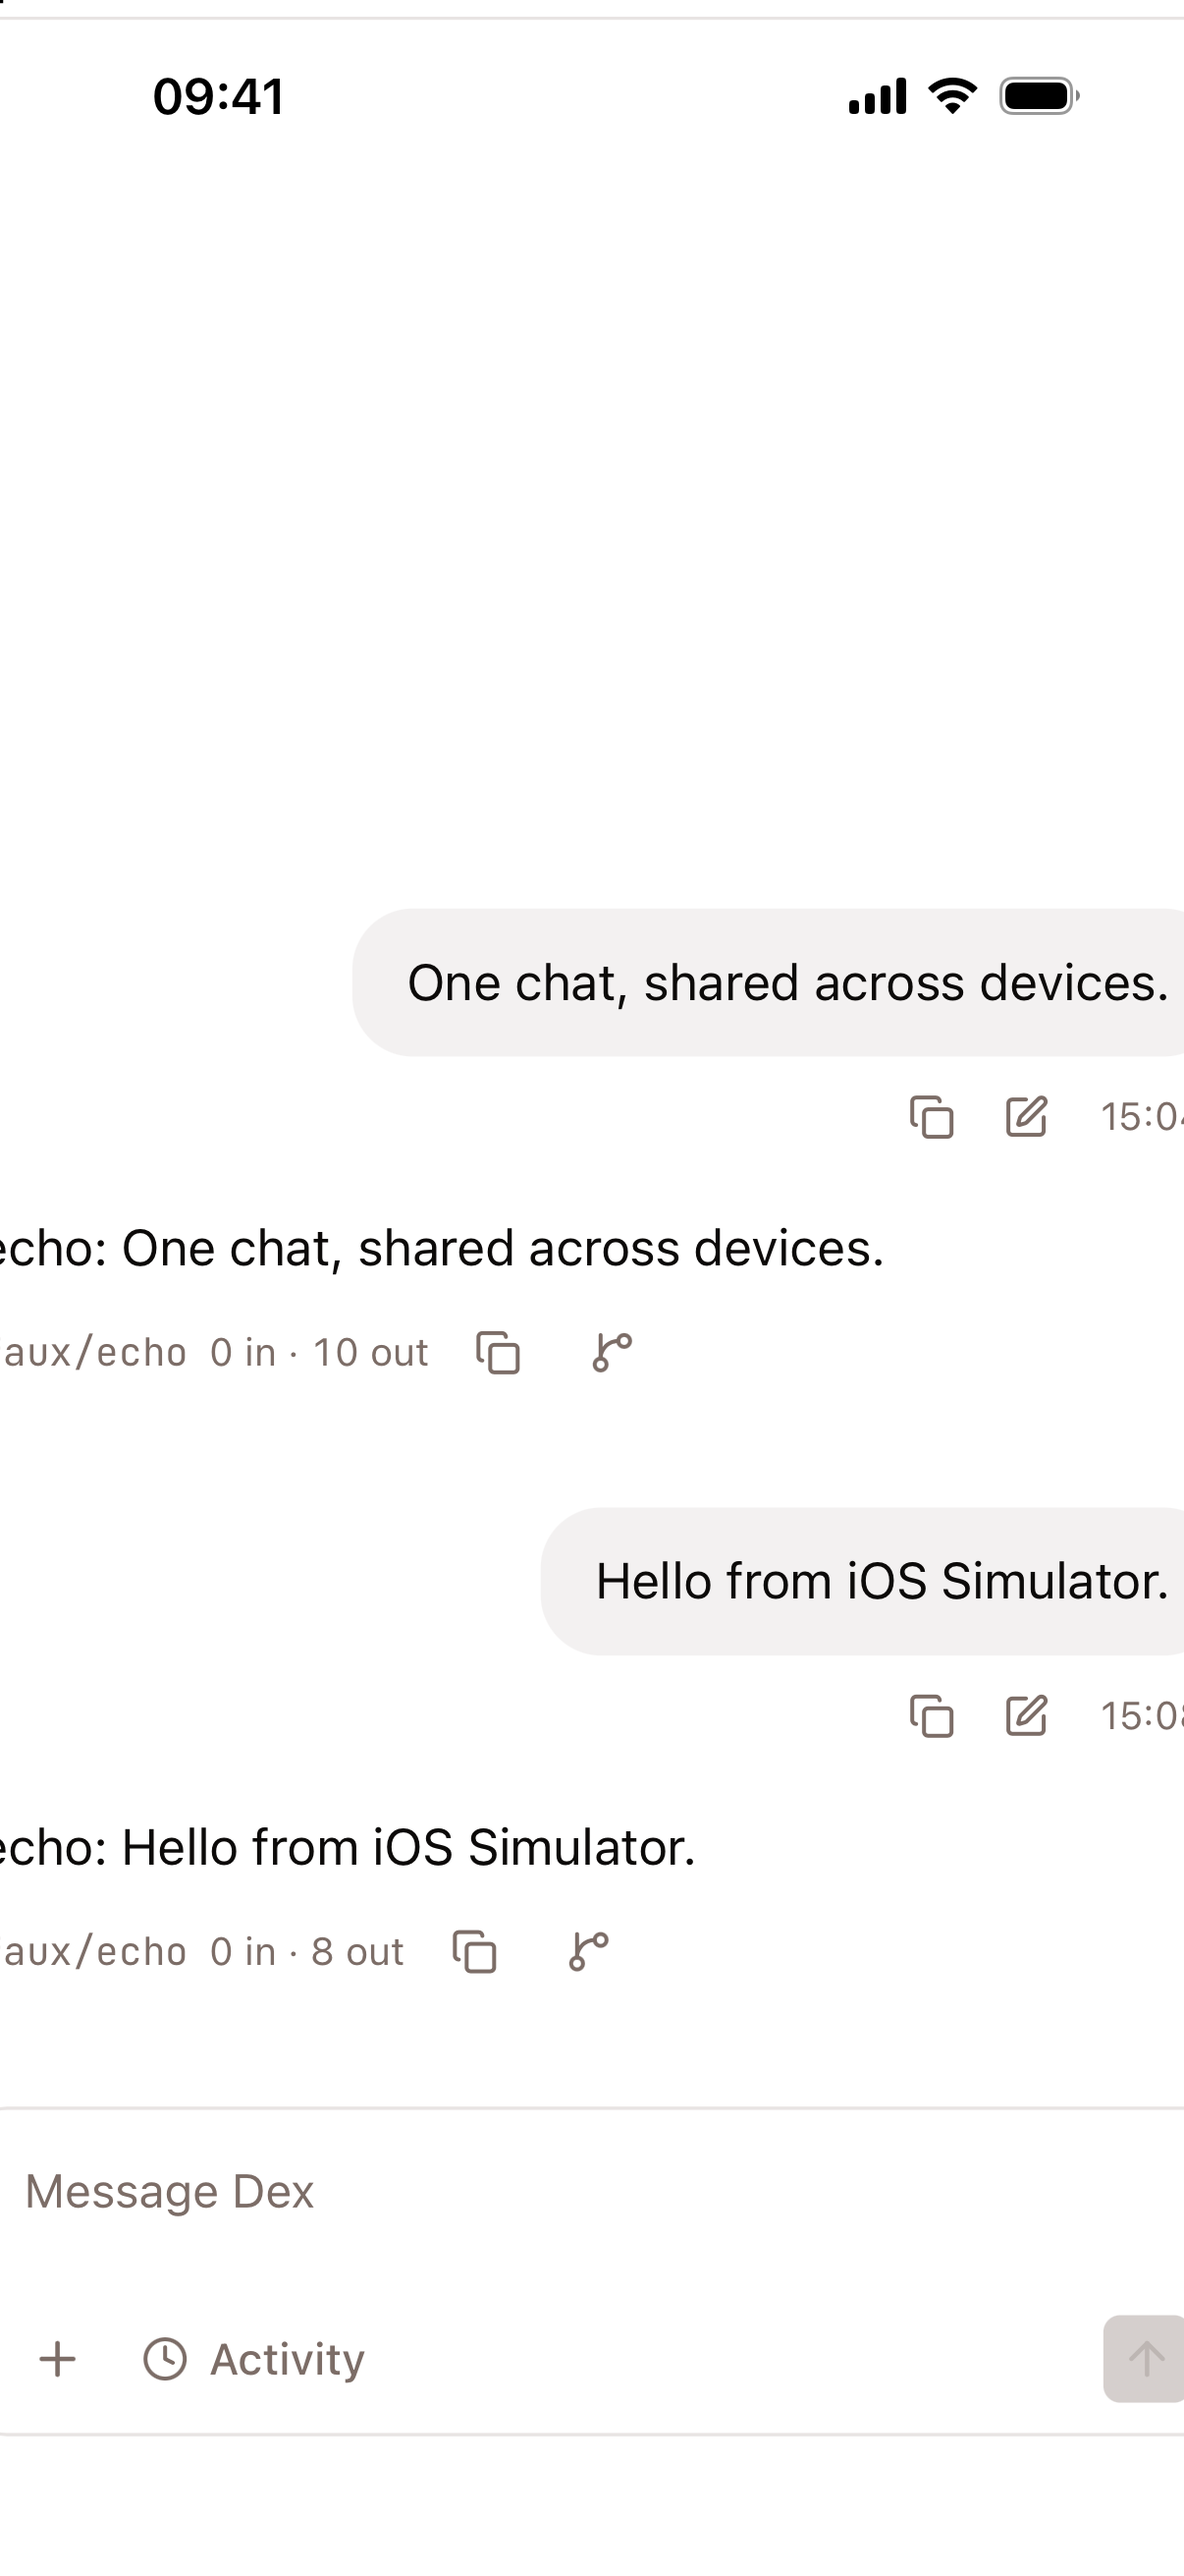
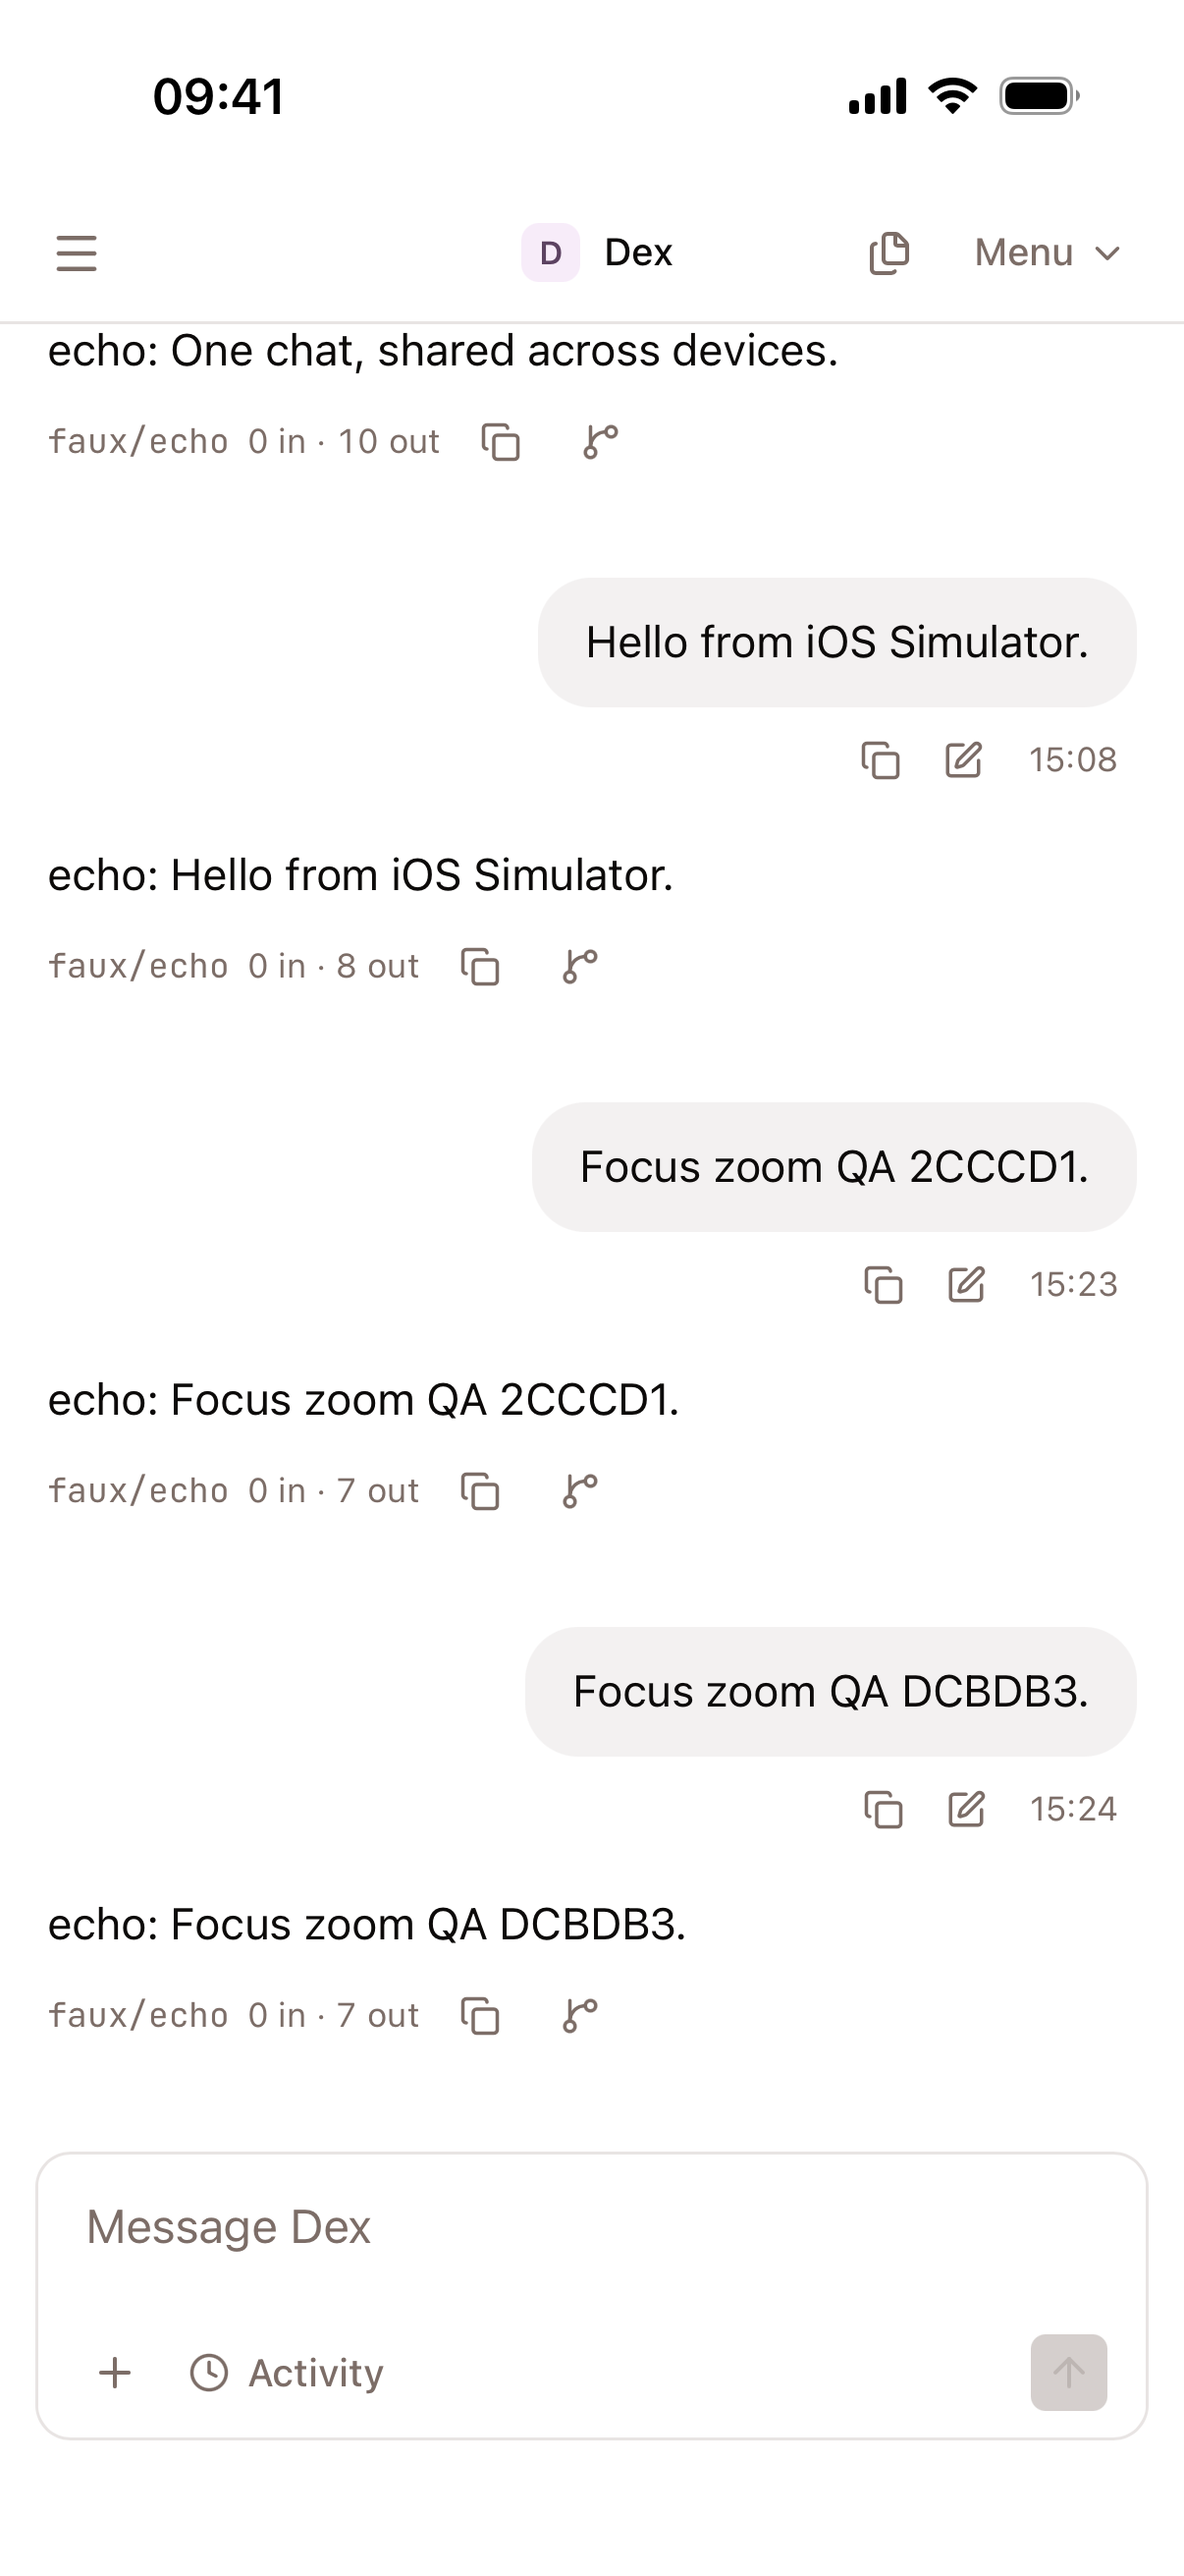
web: Keep the iPhone chat viewport stable during input
WebKit enlarged the 14 px chat field on focus and kept the viewport clipped after send. Use 16 px for coarse pointers without changing pinch zoom or desktop typography. Make Apple targets the default for the first trial and record the red and green simulator evidence.

diff --git a/experiments/nsgo-webview/uitests/FocusZoom.swift b/experiments/nsgo-webview/uitests/FocusZoom.swift
@@ -1,0 +1,68 @@
+import XCTest
+
+final class FocusZoom: XCTestCase {
+    func testUserCanTypeAndSendWithoutZooming() throws {
+        continueAfterFailure = true
+        let app = XCUIApplication(bundleIdentifier: "dev.vaayne.dex.webviewpoc")
+        app.launch()
+        let window = app.windows.firstMatch
+        let web = app.webViews.firstMatch
+        let composer = web.textViews["Message Dex"].firstMatch
+        let send = web.buttons["Send message"].firstMatch
+        let menu = web.otherElements["Bot menu: Dex"].firstMatch
+        let keyboard = app.keyboards.firstMatch
+        XCTAssertTrue(composer.waitForExistence(timeout: 15))
+        XCTAssertTrue(send.exists)
+        XCTAssertTrue(menu.exists)
+        XCTAssertFalse(keyboard.exists)
+
+        func capture(_ phase: String) {
+            let menuFrame = menu.exists ? menu.frame : .null
+            let keyboardFrame = keyboard.exists ? keyboard.frame : .null
+            print("ZOOM \(phase) window=\(window.frame) web=\(web.frame) composer=\(composer.frame) send=\(send.frame) sendHittable=\(send.isHittable) sendEnabled=\(send.isEnabled) menu=\(menuFrame) keyboard=\(keyboard.exists) keyboardFrame=\(keyboardFrame)")
+            let photo = XCTAttachment(screenshot: XCUIScreen.main.screenshot())
+            photo.name = phase
+            photo.lifetime = .keepAlways
+            add(photo)
+        }
+
+        let baseline = composer.frame
+        let sendBaseline = send.frame
+        func checkGeometry(_ phase: String) {
+            let screen = window.frame.insetBy(dx: -1, dy: 0)
+            for (name, frame, original) in [("composer", composer.frame, baseline), ("send", send.frame, sendBaseline)] {
+                XCTAssertFalse(frame.isEmpty, "\(phase): \(name) has no frame")
+                XCTAssertGreaterThanOrEqual(frame.minX, screen.minX, "\(phase): \(name) clips the left edge")
+                XCTAssertLessThanOrEqual(frame.maxX, screen.maxX, "\(phase): \(name) clips the right edge")
+                XCTAssertEqual(frame.minX, original.minX, accuracy: 2, "\(phase): \(name) left edge moved")
+                XCTAssertEqual(frame.maxX, original.maxX, accuracy: 2, "\(phase): \(name) right edge moved")
+            }
+        }
+
+        capture("baseline")
+        composer.tap()
+        // A new simulator can show the system keyboard tutorial on first focus.
+        let tutorial = app.buttons["Continue"].firstMatch
+        if tutorial.exists && tutorial.isHittable { tutorial.tap() }
+        XCTAssertTrue(keyboard.waitForExistence(timeout: 5), "A real tap must show the software keyboard")
+        let marker = UUID().uuidString.prefix(6)
+        let message = "Focus zoom QA \(marker)."
+        composer.typeText(message)
+        capture("before-send-keyboard")
+        checkGeometry("keyboard shown")
+        XCTAssertTrue(send.isEnabled && send.isHittable, "Send must be usable while the keyboard is shown")
+
+        window.coordinate(withNormalizedOffset: CGVector(dx: 0.50, dy: 0.22)).tap()
+        let hidden = XCTNSPredicateExpectation(predicate: NSPredicate(format: "exists == false"), object: keyboard)
+        XCTAssertEqual(XCTWaiter.wait(for: [hidden], timeout: 5), .completed, "A tap outside the composer must hide the keyboard")
+        capture("before-send-keyboard-hidden")
+        checkGeometry("keyboard hidden")
+        XCTAssertTrue(menu.isHittable, "The chat header must be reachable after dismissing the keyboard")
+        XCTAssertTrue(send.isEnabled && send.isHittable, "Send must be usable after dismissing the keyboard")
+        if send.isEnabled && send.isHittable { send.tap() }
+        XCTAssertTrue(web.staticTexts["echo: " + message].firstMatch.waitForExistence(timeout: 12), "A tap on Send must produce a new echo in this chat")
+        capture("after-send")
+        checkGeometry("echo shown")
+        XCTAssertFalse(keyboard.exists)
+    }
+}

diff --git a/web/src/components/composer.tsx b/web/src/components/composer.tsx
@@ -268,6 +268,7 @@ export function Composer({
             {files.notice}
           </p>
         ) : null}
+        {/* WebKit can zoom when a touch user focuses an input with text smaller than 16px. */}
         <Textarea
           ref={(element) => {
             area.current = element;
@@ -278,7 +279,7 @@ export function Composer({
             }
           }}
           rows={1}
-          className="min-h-[44px] w-full min-w-0 resize-none rounded-none border-0 bg-transparent px-1 py-1.5 text-[14px] leading-5 text-foreground shadow-none outline-none [overflow-wrap:anywhere] dark:bg-transparent placeholder:text-muted-foreground focus-visible:border-0 focus-visible:ring-0 disabled:cursor-not-allowed"
+          className="min-h-[44px] w-full min-w-0 resize-none rounded-none border-0 bg-transparent px-1 py-1.5 text-[14px] leading-5 text-foreground shadow-none outline-none [overflow-wrap:anywhere] dark:bg-transparent placeholder:text-muted-foreground focus-visible:border-0 focus-visible:ring-0 disabled:cursor-not-allowed pointer-coarse:text-[16px]"
           maxLength={32000}
           placeholder={running ? "Add to this run…" : placeholder}
           aria-label={running ? "Add to this run…" : placeholder}

diff --git a/experiments/nsgo-webview/README.md b/experiments/nsgo-webview/README.md
@@ -1,6 +1,6 @@
 # Dex WebView trial
 
-This native shell opens the React UI that Dex already serves. The browser and the shell use the same pages, HTTP API, and event stream. The shell has no chat components. It does not inject app scripts or handle commands from the page. The Go server still runs the Bot. This trial does not change the production client. See the [screenshots and observed differences](screenshots/README.md).
+This native shell opens the React UI that Dex already serves. The browser and the shell use the same pages, HTTP API, and event stream. The shell has no chat components. It does not inject app scripts or handle commands from the page. The Go server still runs the Bot. The first trial targets Apple Silicon Macs and the iOS Simulator. The shared chat composer uses 16 CSS pixels for touch input to prevent focus zoom on iPhone. Mouse and trackpad users keep their existing text size. The page still allows pinch zoom. See the [screenshots and observed differences](screenshots/README.md).
 
 ## Try it on a Mac
 
@@ -27,9 +27,21 @@ mise exec -- go tool nsgo dev -target ios_simulator -device '<simulator UDID>' -
 
 Send a short message in the shell. Check that its `echo:` reply appears in both clients. Open Board and return to chat. The iOS Simulator can reach the Mac through loopback; a physical iPhone cannot. This trial does not support remote servers or physical iPhones.
 
-## Android and Windows
+### Test iPhone input focus
 
-From `experiments/nsgo-webview`, build the Android arm64 APK and the Windows x64 package:
+Use the disposable demo and its default Bot. Install the shell on an iPhone simulator and enable the software keyboard. The [XCTest case](uitests/FocusZoom.swift) sends a message and checks the horizontal bounds of the composer and Send button during input, after keyboard dismissal, and after the echo. No app restart occurs between these steps.
+
+To run the case in Xcode, add it to an iOS UI Testing Bundle. If you use XcodeGen, you can run the same test from `experiments/nsgo-webview/uitests`:
+
+```sh
+xcodegen generate
+xcodebuild test -project ZoomQA.xcodeproj -scheme FocusZoom \
+  -destination 'platform=iOS Simulator,id=<simulator UDID>' -parallel-testing-enabled NO
+```
+
+## Optional Android and Windows builds
+
+These targets are outside the first trial. From `experiments/nsgo-webview`, explicitly build the Android arm64 APK and the Windows x64 package:
 
 ```sh
 mise exec -- go tool nsgo build -target android_arm64,windows_x64 -installers=false

diff --git a/experiments/nsgo-webview/screenshots/README.md b/experiments/nsgo-webview/screenshots/README.md
@@ -4,9 +4,9 @@ The screens show the same disposable Dex and the same Bot Main route, `/b/defaul
 
 - [Browser, desktop](browser-desktop.png) and [browser, phone width](browser-phone.png): Chrome at 1280 × 800 and 390 × 844 CSS pixels. The desktop browser sent the first message. Both browsers displayed its reply.
 - [iOS Simulator, initial view](ios.png): the app shows the same first message and reply. This is a native app capture, not a browser at phone width.
-- [iOS Simulator, after sending](ios-after-send.png): the second user message and its echo came from a send in the app. The viewport is still enlarged after entry. Compare the initial view to see the change in scale and visible controls.
-
-- [iOS Simulator, after reopening](ios-reopened.png): both messages and replies are visible again at the original scale.
+- [iOS Simulator, before the fix](ios-before-fix.png): focus enlarged the 352 pt composer to 403 pt on a 402 pt wide iPhone. The right edge remained clipped after the reply.
+- [iOS Simulator, keyboard open](ios-keyboard.png) and [after sending](ios-after-send.png): with the fix, the composer stays 352 pt wide and the Send button stays 28 pt wide. Dismissing the keyboard restores the header. The reply appears in the same view without a restart.
+- [Earlier trial, after reopening](ios-reopened.png): the old app needed a restart to show the whole chat again in this run.
 - [macOS, WebKit content](macos-webkit-content.png): a separate QA copy captured only its own 1280 × 800 pt `WKWebView` with `takeSnapshot`. The image shows the desktop layout and both replies, but not the user bubbles. The cause is unknown. The unmodified app ran on the Mac, but the system did not allow window capture or input automation. This is not a screenshot of the distributed app window.
 
 These captures show appearance and selected interactions. They do not certify pixel equality, a physical iPhone, or the Android and Windows clients.
